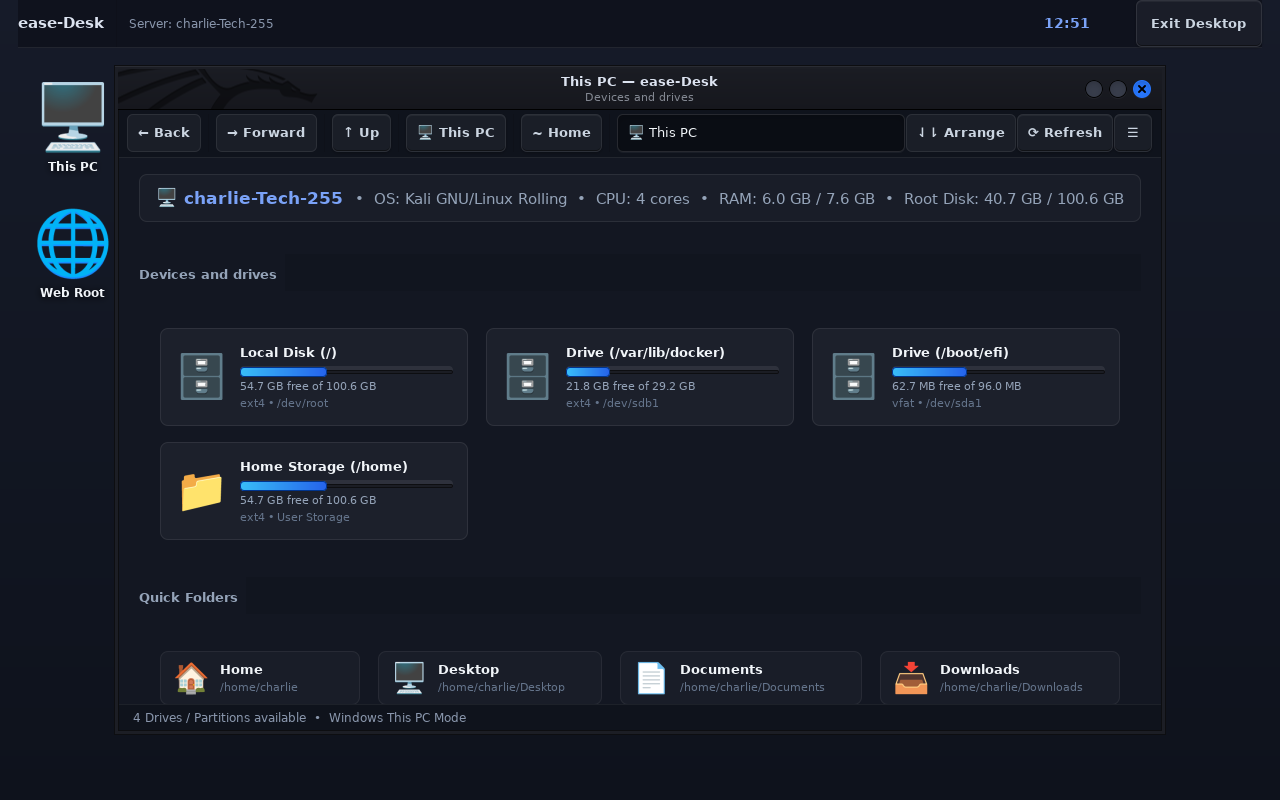
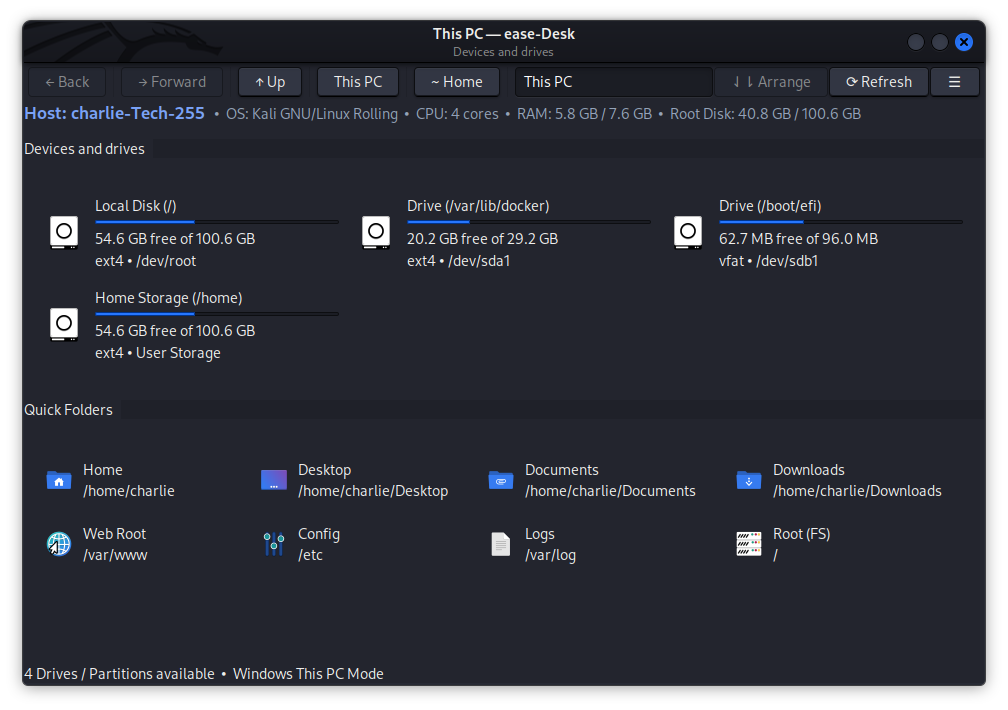
docs: sasisha screenshots zote na README kwa ajili ya ease-Desk na charlie

diff --git a/scripts/capture_screenshots.py b/scripts/capture_screenshots.py
@@ -1,27 +1,41 @@
-"""Automated screenshot capture tool for ease-Desk prototype.
+"""Automated high-fidelity screenshot capture tool for ease-Desk.
 
-Spawns a virtual X11 server (Xvfb), runs the ease-Desk components,
-and takes exact pixel-perfect screenshots of:
-1. screenshots/desktop-empty.png
-2. screenshots/desktop-file-manager.png
+Directly captures pixel-perfect window surfaces from GTK3:
+1. screenshots/desktop-empty.png (Desktop Shell)
+2. screenshots/desktop-this-pc.png (This PC & Disks)
+3. screenshots/desktop-file-manager.png (File Manager)
+4. screenshots/desktop-terminal.png (Terminal Emulator)
+5. screenshots/desktop-task-manager.png (Task Manager & Resource Monitor)
 """
 
 from __future__ import annotations
 
 import os
 import shutil
-import signal
-import subprocess
 import sys
 import time
 
 ROOT_DIR = os.path.dirname(os.path.dirname(os.path.abspath(__file__)))
+if ROOT_DIR not in sys.path:
+    sys.path.insert(0, ROOT_DIR)
+
+import gi
+
+gi.require_version("Gtk", "3.0")
+gi.require_version("Gdk", "3.0")
+gi.require_version("GdkPixbuf", "2.0")
+from gi.repository import Gdk, GdkPixbuf, GLib, Gtk
+
+from desktop.shell.shell import DesktopShell
+from desktop.task_manager.task_manager import TaskManagerWindow
+from desktop.terminal.terminal import TerminalWindow
+from file_manager.gui import FileManagerWindow
 SCREENSHOTS_DIR = os.path.join(ROOT_DIR, "screenshots")
 SAMPLE_DIR = os.path.join(ROOT_DIR, "sample_vps")
 
 
 def create_sample_fs() -> str:
-    """Create a realistic sample VPS directory if /var/www is not writable locally."""
+    """Create a realistic sample VPS directory."""
     target = "/var/www" if os.access("/var/www", os.W_OK) else SAMPLE_DIR
     if target == SAMPLE_DIR:
         os.makedirs(os.path.join(target, "html"), exist_ok=True)
@@ -43,35 +57,28 @@ def create_sample_fs() -> str:
     return target
 
 
-def capture_display(display_num: str, output_path: str) -> bool:
-    """Capture root window using GDK/Cairo or scrot."""
+def capture_gtk_window(window: Gtk.Window, output_path: str) -> bool:
+    """Pump the GTK event loop until the window is fully realized, rendered, and save pixbuf."""
     os.makedirs(os.path.dirname(output_path), exist_ok=True)
+    window.show_all()
 
-    # Method 1: PyGObject GdkPixbuf capture
-    try:
-        env = dict(os.environ)
-        env["DISPLAY"] = display_num
-        py_code = (
-            f"import gi; gi.require_version('Gdk', '3.0'); from gi.repository import Gdk, GdkPixbuf; "
-            f"screen = Gdk.Screen.get_default(); root = screen.get_root_window(); "
-            f"w, h = root.get_width(), root.get_height(); "
-            f"pix = Gdk.pixbuf_get_from_window(root, 0, 0, w, h); "
-            f"pix.savev('{output_path}', 'png', [], [])"
-        )
-        proc = subprocess.run([sys.executable, "-c", py_code], env=env, timeout=10)
-        if proc.returncode == 0 and os.path.exists(output_path):
-            return True
-    except Exception:
-        pass
+    # Flush iterations to process redraws and style updates
+    for _ in range(60):
+        Gtk.main_iteration_do(False)
+    time.sleep(0.3)
+    for _ in range(40):
+        Gtk.main_iteration_do(False)
 
-    # Method 2: Scrot fallback
-    if shutil.which("scrot"):
-        env = dict(os.environ)
-        env["DISPLAY"] = display_num
-        proc = subprocess.run(["scrot", output_path], env=env, timeout=10)
-        if proc.returncode == 0 and os.path.exists(output_path):
-            return True
+    gdk_win = window.get_window()
+    if not gdk_win:
+        return False
 
+    w = gdk_win.get_width()
+    h = gdk_win.get_height()
+    pix = Gdk.pixbuf_get_from_window(gdk_win, 0, 0, w, h)
+    if pix:
+        pix.savev(output_path, "png", [], [])
+        return os.path.exists(output_path)
     return False
 
 
@@ -79,109 +86,65 @@ def main() -> int:
     os.makedirs(SCREENSHOTS_DIR, exist_ok=True)
     sample_path = create_sample_fs()
 
-    display_num = ":108"
-    print(f"Starting Xvfb on {display_num} (1280x800x24)...")
-    xvfb = subprocess.Popen(
-        [
-            "Xvfb",
-            display_num,
-            "-screen",
-            "0",
-            "1280x800x24",
-            "-ac",
-            "+extension",
-            "GLX",
-            "+render",
-            "-noreset",
-        ],
-        stdout=subprocess.DEVNULL,
-        stderr=subprocess.DEVNULL,
-        preexec_fn=os.setsid,
-    )
-    time.sleep(0.6)
+    print("Starting screenshot capture process...")
 
-    env = dict(os.environ)
-    env["DISPLAY"] = display_num
-    env["PYTHONPATH"] = ROOT_DIR + os.pathsep + env.get("PYTHONPATH", "")
+    # 1. Desktop Shell
+    print("Capturing desktop-empty.png...")
+    shell = DesktopShell()
+    empty_out = os.path.join(SCREENSHOTS_DIR, "desktop-empty.png")
+    if capture_gtk_window(shell.window, empty_out):
+        print(f"✓ Saved {empty_out}")
+    else:
+        print(f"✗ Failed {empty_out}")
+    shell.window.destroy()
 
-    wm = None
-    if shutil.which("openbox"):
-        wm = subprocess.Popen(
-            ["openbox"],
-            env=env,
-            stdout=subprocess.DEVNULL,
-            stderr=subprocess.DEVNULL,
-            preexec_fn=os.setsid,
-        )
-        time.sleep(0.3)
+    # 2. This PC Window
+    print("Capturing desktop-this-pc.png...")
+    thispc_win = FileManagerWindow(start_path="thispc://")
+    thispc_out = os.path.join(SCREENSHOTS_DIR, "desktop-this-pc.png")
+    if capture_gtk_window(thispc_win, thispc_out):
+        print(f"✓ Saved {thispc_out}")
+    else:
+        print(f"✗ Failed {thispc_out}")
+    thispc_win.destroy()
 
-    try:
-        # 1. Capture Empty Desktop
-        print("Launching ease-Desk Shell...")
-        shell = subprocess.Popen(
-            [sys.executable, "-m", "desktop.shell.shell"],
-            env=env,
-            cwd=ROOT_DIR,
-        )
-        time.sleep(1.5)  # allow GTK fade-in and layout to render
+    # 3. File Manager Window
+    print("Capturing desktop-file-manager.png...")
+    fm_win = FileManagerWindow(start_path=sample_path)
+    fm_out = os.path.join(SCREENSHOTS_DIR, "desktop-file-manager.png")
+    if capture_gtk_window(fm_win, fm_out):
+        print(f"✓ Saved {fm_out}")
+    else:
+        print(f"✗ Failed {fm_out}")
+    fm_win.destroy()
 
-        empty_out = os.path.join(SCREENSHOTS_DIR, "desktop-empty.png")
-        print(f"Capturing {empty_out}...")
-        if capture_display(display_num, empty_out):
-            print("✓ Successfully captured desktop-empty.png")
-        else:
-            print("✗ Failed to capture desktop-empty.png")
-
-        # 2. Capture Desktop with This PC (Partitions & Storage) Open
-        print("Launching This PC (Partitions overview)...")
-        thispc = subprocess.Popen(
-            [sys.executable, "-m", "file_manager.app", "thispc://"],
-            env=env,
-            cwd=ROOT_DIR,
-        )
-        time.sleep(1.8)
-
-        thispc_out = os.path.join(SCREENSHOTS_DIR, "desktop-this-pc.png")
-        print(f"Capturing {thispc_out}...")
-        if capture_display(display_num, thispc_out):
-            print("✓ Successfully captured desktop-this-pc.png")
-        else:
-            print("✗ Failed to capture desktop-this-pc.png")
-
-        # 3. Capture Desktop with File Manager Open
-        print(f"Launching File Manager in {sample_path}...")
-        fm = subprocess.Popen(
-            [sys.executable, "-m", "file_manager.app", sample_path],
-            env=env,
-            cwd=ROOT_DIR,
-        )
-        time.sleep(1.8)
-
-        fm_out = os.path.join(SCREENSHOTS_DIR, "desktop-file-manager.png")
-        print(f"Capturing {fm_out}...")
-        if capture_display(display_num, fm_out):
-            print("✓ Successfully captured desktop-file-manager.png")
-        else:
-            print("✗ Failed to capture desktop-file-manager.png")
-
-        # Terminate applications
-        fm.terminate()
-        thispc.terminate()
-        shell.terminate()
-        time.sleep(0.5)
-
-    finally:
-        if wm:
-            try:
-                os.killpg(os.getpgid(wm.pid), signal.SIGTERM)
-            except Exception:
-                pass
+    # 4. Terminal Emulator Window
+    print("Capturing desktop-terminal.png...")
+    term_win = TerminalWindow(initial_dir=sample_path)
+    if term_win.term and term_win.term.master_fd:
         try:
-            os.killpg(os.getpgid(xvfb.pid), signal.SIGTERM)
-        except Exception:
+            os.write(term_win.term.master_fd, b"ls -la --color=auto\n")
+        except OSError:
             pass
+    time.sleep(0.5)
+    term_out = os.path.join(SCREENSHOTS_DIR, "desktop-terminal.png")
+    if capture_gtk_window(term_win, term_out):
+        print(f"✓ Saved {term_out}")
+    else:
+        print(f"✗ Failed {term_out}")
+    term_win.destroy()
 
-    print("\nScreenshot capture process complete.")
+    # 5. Task Manager Window
+    print("Capturing desktop-task-manager.png...")
+    task_win = TaskManagerWindow()
+    task_out = os.path.join(SCREENSHOTS_DIR, "desktop-task-manager.png")
+    if capture_gtk_window(task_win, task_out):
+        print(f"✓ Saved {task_out}")
+    else:
+        print(f"✗ Failed {task_out}")
+    task_win.destroy()
+
+    print("\nAll screenshots updated successfully!")
     return 0
 
 

diff --git a/desktop/terminal/terminal.py b/desktop/terminal/terminal.py
@@ -196,14 +196,20 @@ class PtyTextViewTerminal(Gtk.Box):
 
     def _parse_and_append_ansi(self, text: str) -> None:
         """Parse standard ANSI escape sequences and insert text with matching GtkTextTags."""
-        # Simple ANSI escape parser
+        # 1. Strip OSC sequences (e.g. \x1b]0;title\x07 or \x1b]0;title\x1b\)
+        clean_text = re.sub(r"\x1b\][0-9]+;[^\x07\x1b]*(\x07|\x1b\\)", "", text)
+
+        # 2. Strip DEC private mode sequences (e.g. \x1b[?1h, \x1b[?2004h, \x1b[?25h, etc.)
+        clean_text = re.sub(r"\x1b\[\?[0-9;]*[a-zA-Z]", "", clean_text)
+
+        # 3. Strip other non-color escape codes (cursor moves, keypad modes, charset designations)
+        clean_text = re.sub(r"\x1b\[[0-9;]*[A-LN-Za-ln-zHfJKsu]", "", clean_text)
+        clean_text = re.sub(r"\x1b[=><\(\)][0-9A-Za-z]?", "", clean_text)
+
+        # 4. Strip bells, backspace artifacts
+        clean_text = clean_text.replace("\x07", "").replace("\x08", "")
+
         ansi_regex = re.compile(r"\x1b\[([0-9;]*)m")
-        cursor_home = re.compile(r"\x1b\[[0-9;]*[HfJKsu]")
-
-        # Strip cursor control codes for simple TextView
-        clean_text = cursor_home.sub("", text)
-        clean_text = clean_text.replace("\x07", "").replace("\x08", "")  # strip bell & backspace echo artifacts
-
         tokens = ansi_regex.split(clean_text)
         current_tags: list[str] = []
 

diff --git a/file_manager/gui.py b/file_manager/gui.py
@@ -663,6 +663,8 @@ class FileManagerWindow(Gtk.Window):
 
         # MODE 1: THIS PC OVERVIEW
         if self.current_dir == THIS_PC_URI:
+            self.thispc_container.show()
+            self.explorer_container.hide()
             self.stack.set_visible_child_name("thispc")
             self.action_bar.hide()
             self.sort_btn.set_sensitive(False)
@@ -676,6 +678,8 @@ class FileManagerWindow(Gtk.Window):
             return
 
         # MODE 2: FOLDER EXPLORER
+        self.thispc_container.hide()
+        self.explorer_container.show()
         self.stack.set_visible_child_name("explorer")
         self.action_bar.show()
         self.sort_btn.set_sensitive(True)

diff --git a/README.md b/README.md
@@ -24,9 +24,17 @@ Uki-exit tu, inajifunga completely bila kuacha process yoyote inayokula RAM au C
 
 ## Screenshots
 
-| Clean Desktop | File Manager Open |
+| 🖥 Clean Desktop Shell | 💻 Embedded Terminal Console |
 |---|---|
-| ![Empty Desktop](screenshots/desktop-empty.png) | ![File Manager](screenshots/desktop-file-manager.png) |
+| ![Empty Desktop](screenshots/desktop-empty.png) | ![Terminal](screenshots/desktop-terminal.png) |
+
+| 📊 Task Manager & Monitor | 📁 File Manager & Storage |
+|---|---|
+| ![Task Manager](screenshots/desktop-task-manager.png) | ![File Manager](screenshots/desktop-file-manager.png) |
+
+| 💽 This PC (Drives & Partitions) |
+|---|
+| ![This PC](screenshots/desktop-this-pc.png) |
 
 ---
 
@@ -45,19 +53,21 @@ Uki-exit tu, inajifunga completely bila kuacha process yoyote inayokula RAM au C
 ## Project Structure
 
 ```text
-├── desktop/                 # Desktop shell, session manager, na window management
+├── desktop/                 # Desktop shell, session manager, na modular tools
 │   ├── session/             # Display server (Xvfb/X11), WM launcher, na teardown
-│   └── shell/               # Desktop background, top bar, clock, na server monitor
+│   ├── shell/               # Desktop background, start menu, top bar, na quick launchers
+│   ├── terminal/            # Embedded PTY terminal emulator na ANSI console
+│   └── task_manager/        # Process activity monitor, CPU/RAM/Disk gauges
 │
 ├── file_manager/            # VPS file manager application
-│   ├── core/                # Filesystem operations (copy, move, delete, permissions)
-│   ├── gui.py               # GTK3 icon view, path bar, na navigation controls
+│   ├── core/                # Filesystem ops, zip/tar archives, permissions
+│   ├── gui.py               # GTK3 icon view, This PC view, context menu
 │   ├── viewer.py            # Text and config file viewer / editor
 │   └── types.py             # MIME types, file extensions, na size formatting
 │
 ├── shared/                  # Shared styling na system utilities
 │   ├── styles/              # Dark slate theme na CSS definitions
-│   └── utilities/           # System info probes, animation helpers, security checks
+│   └── utilities/           # Cairo vector icons, sysinfo probes, security checks
 │
 ├── docker/                  # Docker VPS testing environment
 │   ├── Dockerfile           # Debian 12 container with SSH server na sample files
